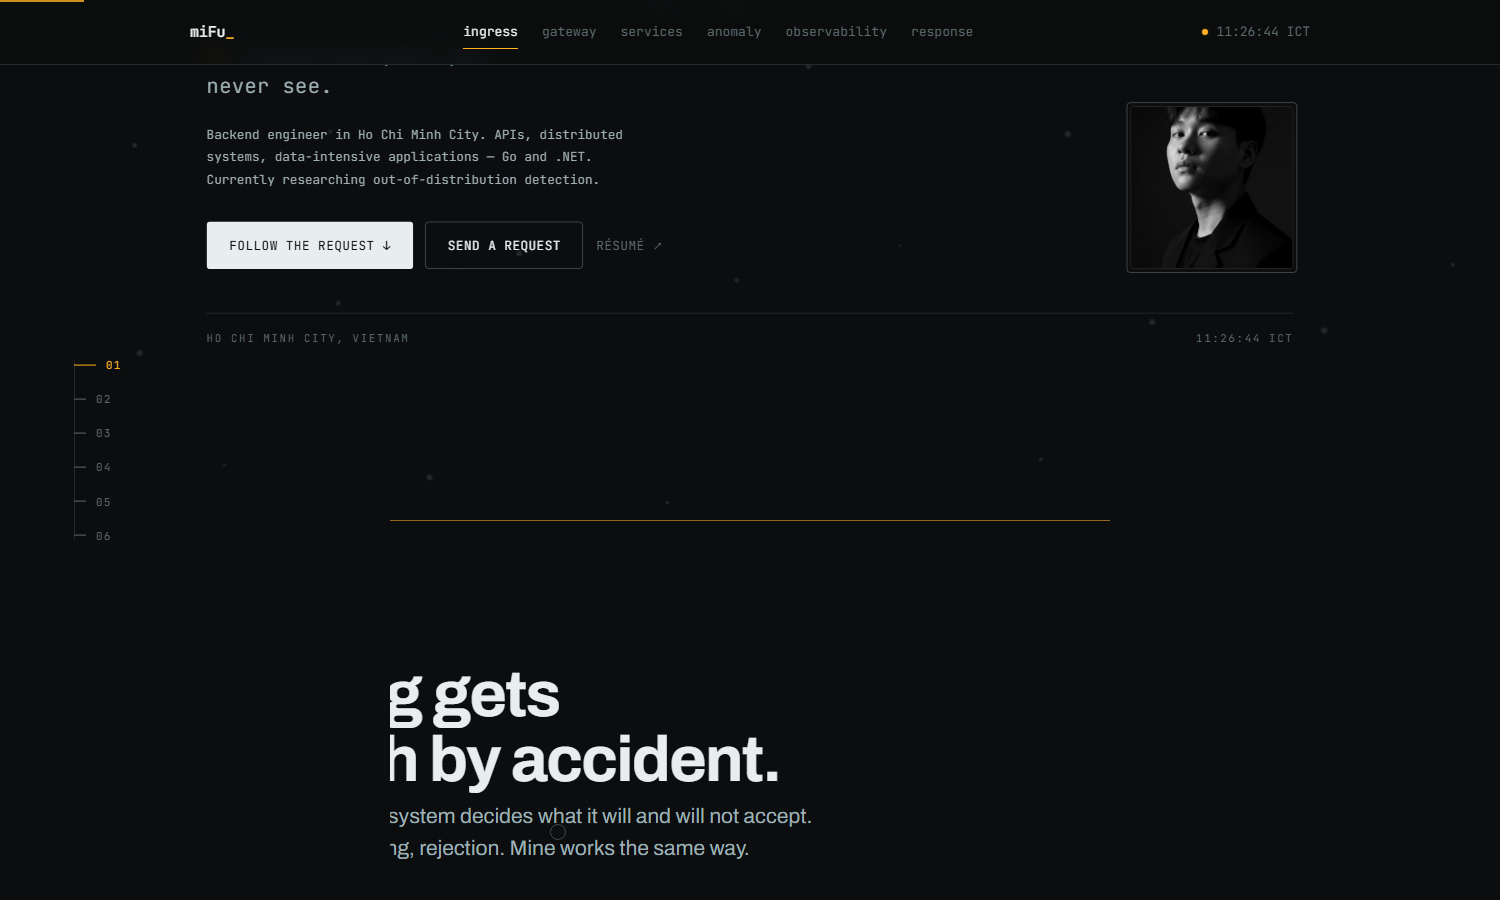
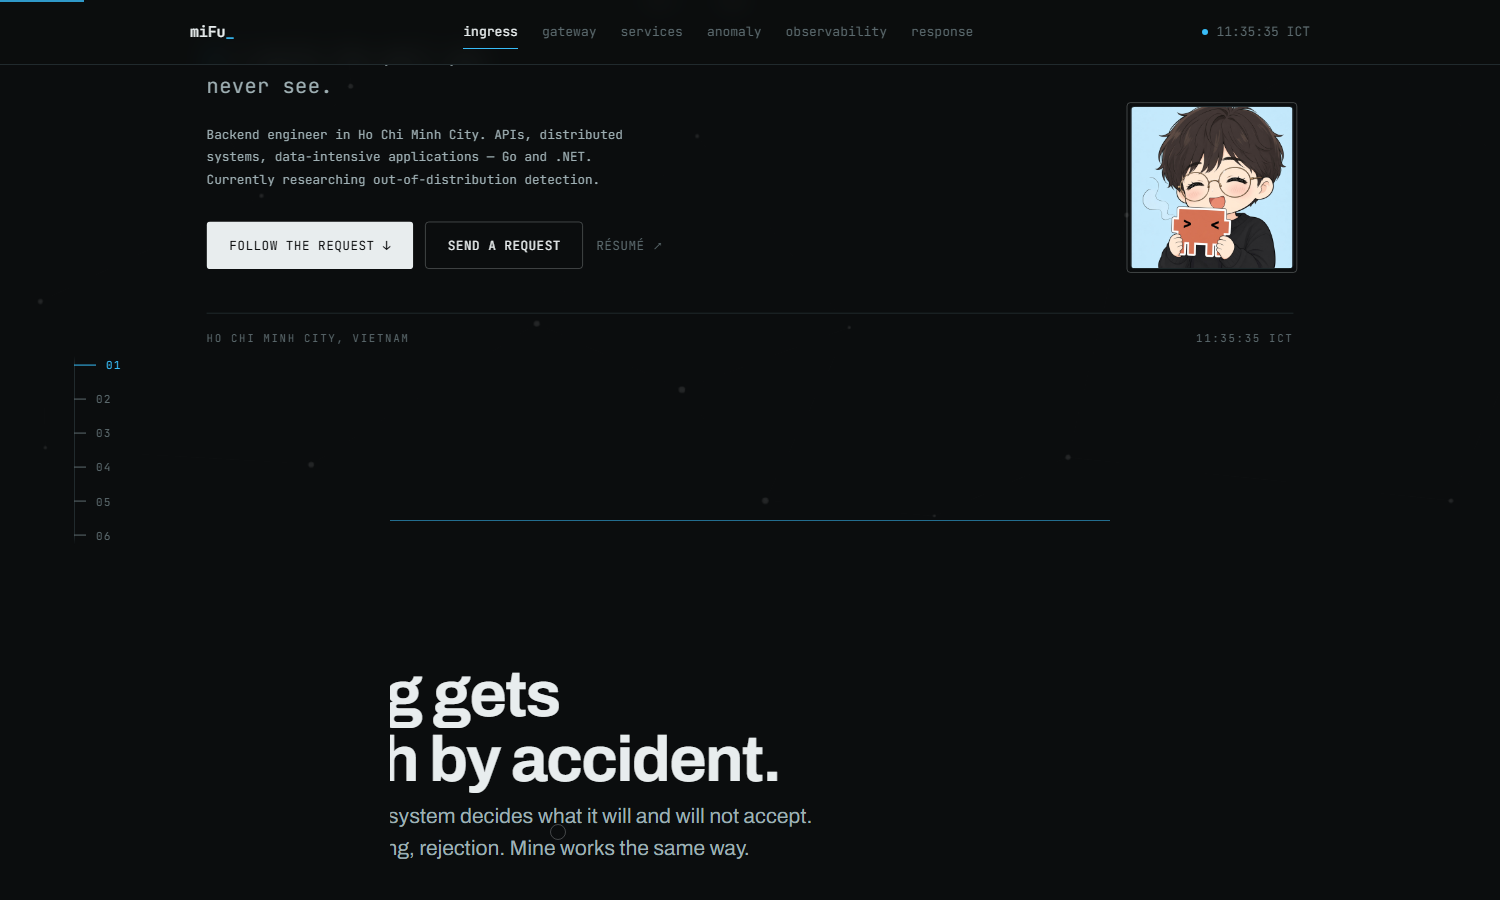
style: a sky-blue signal, and the chibi portrait
The accent moves from amber #ffb224 to sky #38bdf8, with the soft glow and the
diagram's node accent following it. Measured contrast: 9.09:1 on --bg and 8.34:1
on --bg-raised, against roughly 11:1 for the amber it replaces. Both directions
of the solid button's hover clear it, which is the pairing that decides this
token.

The portrait is now mp-chibi.jpg. Two imports pointed at the photo, one to show
it and one for the loader's preload, so both move together; the build now emits
one image. The grayscale filter is gone: it was tuned for a dark photograph, and
on a colour illustration it turned the whole tile into a flat grey plate. The
pastel ground in the drawing now matches the accent.

Verification: pnpm scroll, 37 checks, all passing. The hero screenshot shows the
tile and the new accent together.

Changed region(s): [[0.736, 0.0933, 0.8893, 0.3111]]

diff --git a/src/components/layout/TopologyCanvas.tsx b/src/components/layout/TopologyCanvas.tsx
@@ -124,7 +124,7 @@ const TopologyCanvas = () => {
     // offscreen sheet and blitted each frame. Redrawing every edge and node per
     // frame was the largest single frame cost on the page.
     let sheet: HTMLCanvasElement | null = null;
-    let accent = '#5ae6b0';
+    let accent = '#38bdf8';
 
     const bake = () => {
       const next = document.createElement('canvas');
@@ -156,7 +156,7 @@ const TopologyCanvas = () => {
     // Read once per build: getComputedStyle on every frame is a forced style
     // recalculation, and the token never changes while the page is live.
     const readAccent = () => {
-      accent = getComputedStyle(canvas).getPropertyValue('--signal').trim() || '#5ae6b0';
+      accent = getComputedStyle(canvas).getPropertyValue('--signal').trim() || '#38bdf8';
     };
 
     const drawBase = () => {

diff --git a/src/styles/app.css b/src/styles/app.css
@@ -544,7 +544,6 @@
   height: 100%;
   object-fit: cover;
   border-radius: var(--r-sm);
-  filter: grayscale(1) contrast(1.05);
   border: 1px solid var(--line);
 }
 
@@ -1243,7 +1242,7 @@ html[data-cursor='on'] .cursor {
   --dg-zone-stroke: rgba(232, 237, 238, 0.1);
   --dg-node-fill: rgba(232, 237, 238, 0.035);
   --dg-stroke: var(--line);
-  --dg-node-accent: rgba(255, 178, 36, 0.08);
+  --dg-node-accent: rgba(56, 189, 248, 0.1);
   --dg-node-cloud: rgba(232, 237, 238, 0.055);
   --dg-stroke-cloud: rgba(232, 237, 238, 0.3);
   --dg-node-ext: rgba(159, 176, 180, 0.1);

diff --git a/src/features/hero/components/Hero.tsx b/src/features/hero/components/Hero.tsx
@@ -2,7 +2,7 @@ import { PROFILE, chapter } from '../../../config/content';
 import { useClock } from '../../../hooks/useClock';
 import Reveal from '../../../components/ui/Reveal';
 import TopologyCanvas from '../../../components/layout/TopologyCanvas';
-import portrait from '../../../assets/mp.jpg';
+import portrait from '../../../assets/mp-chibi.jpg';
 import resumePdf from '../../../assets/ttmp_cv.pdf';
 
 const HERO = chapter('ingress');

diff --git a/src/pages/Home.tsx b/src/pages/Home.tsx
@@ -13,7 +13,7 @@ import Response from '../features/response/components/Response';
 import { useLoadProgress } from '../hooks/useLoadProgress';
 import { useScrollMotion } from '../hooks/useScrollMotion';
 import { useSmoothScroll } from '../hooks/useSmoothScroll';
-import portrait from '../assets/mp.jpg';
+import portrait from '../assets/mp-chibi.jpg';
 
 /**
  * Routing shell. Maps a URL to a composition of feature sections and owns

diff --git a/src/styles/tokens.css b/src/styles/tokens.css
@@ -50,8 +50,8 @@
   --text-primary: #e8edee;
   --text-body: #9fb0b4;
   --text-dim: #5d6b6f;
-  --signal: #ffb224;
-  --signal-soft: rgba(255, 178, 36, 0.12);
+  --signal: #38bdf8;
+  --signal-soft: rgba(56, 189, 248, 0.14);
 
   /* -- surfaces ------------------------------------------------------------ */
   --surface: var(--bg-raised);

diff --git a/DESIGN.md b/DESIGN.md
@@ -63,12 +63,17 @@ One skin, dark: a systems console. No light mode.
 | `--text-primary` | `#e8edee` | headings, node names |
 | `--text-body` | `#9fb0b4` | paragraphs |
 | `--text-dim` | `#5d6b6f` | labels only |
-| `--signal` | `#ffb224` | the request |
+| `--signal` | `#38bdf8` | the request |
 
 **Accent discipline.** `--signal` belongs to the request. It appears on the active chapter
 marker, the availability dot, the technologies the visible project actually uses, one number
 per section, and the event arrow in the e-commerce figure. Nowhere else. Budget: about 2% of
 pixels.
+
+It is a cool signal on a cool page, which is the current skin: the page ground is already
+blue-leaning, so the accent carries by chroma and brightness rather than by temperature. On
+`--bg` it clears 9.1:1, and `--bg` on it clears the same, which is what the solid button's
+hover depends on.
 
 `--text-dim` is 11px labels only. It does not clear 4.5:1 against `--bg-raised`, so it must
 never carry a sentence.
